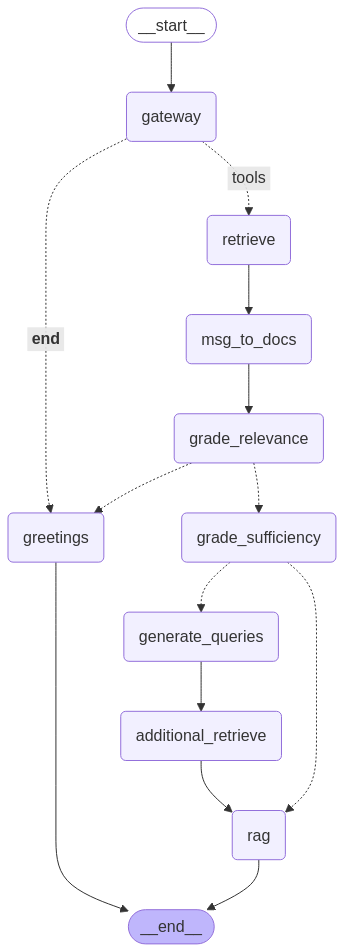
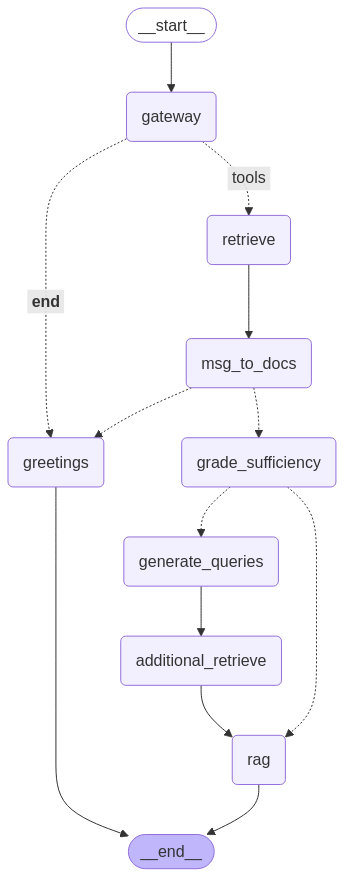
Updated the graph, the nodes, the state, ...
The new graph is almost ready. So many changes are made. The additional_retriever must be tested in a toy_run. There is still room for improvment, mostly with prompt engineering. The gateway must be revised and how it calls the retriever tool.

diff --git a/app/backend/graph/rag_graph.py b/app/backend/graph/rag_graph.py
@@ -2,80 +2,74 @@ from langgraph.graph import END, StateGraph, START
 from langgraph.prebuilt import ToolNode, tools_condition
 from app.backend.tools.retriever_tool import doc_retriever
 from langgraph.graph.graph import CompiledGraph
-from app.backend.agents import (AgentState, 
-    gateway, 
-    grade_relevance, 
-    grade_sufficiency, 
-    rag, 
-    greet, 
-    generate_queries, 
-    additional_retrieve, 
-    msg_to_docs
-    )
+from app.backend.agents import (
+    AgentState,
+    gateway,
+    grade_relevance,
+    grade_sufficiency,
+    rag,
+    greet,
+    generate_queries,
+    additional_retrieve,
+    msg_to_docs,
+)
 
 def create_rag_graph() -> CompiledGraph:
-
-    # Define a new graph
+    # Initialize the graph with our AgentState schema
     workflow = StateGraph(AgentState)
 
-    # Define the nodes we will cycle between
-    workflow.add_node("gateway", gateway)  # agent
+    # Define core nodes
+    workflow.add_node("gateway", gateway)
     retrieve = ToolNode([doc_retriever])
-    workflow.add_node("retrieve", retrieve)  # retrieval
+    workflow.add_node("retrieve", retrieve)
     workflow.add_node("msg_to_docs", msg_to_docs)
-    workflow.add_node("grade_relevance", grade_relevance)
-    workflow.add_node("grade_sufficiency", grade_sufficiency)
     workflow.add_node("greetings", greet)
     workflow.add_node("generate_queries", generate_queries)
     workflow.add_node("additional_retrieve", additional_retrieve)
-    workflow.add_node("rag", rag)  # Generating a response after we know the documents are relevant
-    
-    # Call gateway node to decide to retrieve or not
+    workflow.add_node("rag", rag)
+    # Placeholder node to branch on sufficiency
+    workflow.add_node("grade_sufficiency", lambda state: {})
+
+    # Start → gateway
     workflow.add_edge(START, "gateway")
 
-    # Decide whether to retrieve
+    # Gateway decision: call tools or end
     workflow.add_conditional_edges(
         "gateway",
-        # Assess agent decision
         tools_condition,
         {
-            # Translate the condition outputs to nodes in our graph
             "tools": "retrieve",
             END: "greetings",
         },
     )
     workflow.add_edge("greetings", END)
+
+    # Retrieval → normalize docs → relevance check
     workflow.add_edge("retrieve", "msg_to_docs")
-    workflow.add_edge("msg_to_docs", "grade_relevance")
 
-    # Edges taken after the `action` node is called.
+    # Relevance branching: relevant → sufficiency, irrelevant → end
     workflow.add_conditional_edges(
-        "grade_relevance", # this is a node
-        # Assess agent decision
-        grade_relevance, # this is a routing function
+        "msg_to_docs",
+        grade_relevance,
         {
-        "grade_sufficiency": "grade_sufficiency",
-        "greetings": "greetings",
+            "grade_sufficiency": "grade_sufficiency",
+            "greetings": "greetings",
         },
     )
 
-    # add sufficiency condition
-    # Edges taken after the `action` node is called.
+    # Sufficiency branching: sufficient → rag, insufficient → new queries
     workflow.add_conditional_edges(
-        "grade_sufficiency", # this is a node
-        # Assess agent decision
-        grade_sufficiency, # this is a routing function
+        "grade_sufficiency",
+        grade_sufficiency,
         {
-        "rag": "rag",
-        "generate_queries": "generate_queries",
+            "rag": "rag",
+            "generate_queries": "generate_queries",
         },
     )
 
+    # Generate queries → additional retrieve → final RAG response
     workflow.add_edge("generate_queries", "additional_retrieve")
     workflow.add_edge("additional_retrieve", "rag")
     workflow.add_edge("rag", END)
 
-    # Compile
-    rag_graph = workflow.compile()
-    return rag_graph
-
+    return workflow.compile()

diff --git a/app/backend/tools/retriever_tool.py b/app/backend/tools/retriever_tool.py
@@ -1,8 +1,9 @@
 from langchain_core.tools import tool
 from app.backend.retrievers.retriever_factory import RetrieverFactory
+from langchain_core.documents import Document
 
 
-@tool(response_format="content")
+@tool(response_format="content_and_artifact")
 def doc_retriever(query:str):
     """Retrieve information related to a query."""
 
@@ -13,9 +14,13 @@ def doc_retriever(query:str):
     final_retriever = RetrieverFactory.compression_retriever(base_retriever=merger_retriever)
 
     retrieved_docs = final_retriever.invoke(query)
-    #serialized = "\n\n".join(
-    #    (f"Document {i+1}:\n\Metadata: {doc.metadata}\nContent: {doc.page_content}")
-    #    for i, doc in enumerate(retrieved_docs)
-    #)
-
-    return retrieved_docs
+    # strip off any internal state/embeddings and return plain Document 
+    clean_docs = [
+        Document(page_content=doc.page_content, metadata=doc.metadata)
+        for doc in retrieved_docs
+    ]
+    
+    # first element is the user‑facing content (can be empty, or a simple summary)
+    # second element is the actual list of Documents we want as .artifact
+    summary = f"Retrieved {len(clean_docs)} documents."
+    return summary, clean_docs

diff --git a/app/backend/agents/rag.py b/app/backend/agents/rag.py
@@ -35,11 +35,11 @@ def rag(state):
         You are an expert assistant called BONsAI, tasked with answering any question \
         about biodiversity, GEO BON and BON in a Box.
 
-        Generate a comprehensive and informative answer of 80 words or less for the \
+        Generate a comprehensive and informative answer of 120 words or less for the \
         given question based solely on the provided retrieved documents (metadata and content). You must \
         only use information from the provided retrieved documents. Use an unbiased and \
         journalistic tone. Combine retrieved documents together into a coherent answer. Do not \
-        repeat text. Cite retrieved documents using [$number:] notation. Only cite the most \
+        repeat text. Cite retrieved documents using [$number:source(complete name of it)] notation. Only cite the most \
         relevant documents that answer the question accurately. Place these citations at the end \
         of the sentence or paragraph that reference them - do not put them all at the end. If \
         different documents refer to different entities within the same name, write separate \

diff --git a/app/backend/agents/additional_retriever.py b/app/backend/agents/additional_retriever.py
@@ -4,7 +4,7 @@ from app.backend.tools.retriever_tool import doc_retriever
 
 
 
-def additional_retrieve(state: AgentState):
+def additional_retrieve(state: AgentState) -> dict:
     """
     Retrieves additional documents.
 
@@ -18,13 +18,16 @@ def additional_retrieve(state: AgentState):
 
     print("---ADDITIONAL RETRIEVE---")
 
-    generated_queries = state['messages'][-1]
-    docs = set()
+    # The last message is our list of new query strings
+    queries = state["messages"][-1]
+    if not isinstance(queries, list):
+        queries = [queries]
 
-    for q in generated_queries:
-        retrieved_docs = doc_retriever(q)
-        docs.update(retrieved_docs)
-    
-    docs = list(docs)
+    all_new_docs = []
+    for q in queries:
+        # doc_retriever returns (summary, List[Document])
+        _, new_docs = doc_retriever(q)
+        all_new_docs.extend(new_docs)
 
-    return {'documents': docs}
+    # Return ONLY the newly fetched docs; add_documents will append + dedupe
+    return {"documents": all_new_docs}

diff --git a/app/backend/agents/query_generator.py b/app/backend/agents/query_generator.py
@@ -4,12 +4,12 @@ from langchain_core.output_parsers import BaseOutputParser
 from typing import List
 from app.backend.tools.retriever_tool import doc_retriever
 
-def format_docs(docs):
-    serialized = "\n\n".join(
-            (f"Document {i+1}:\n\Metadata: {doc.metadata}\nContent: {doc.page_content}")
-            for i, doc in enumerate(docs)
-        )
-    return docs[0].page_content
+def format_docs(docs: List) -> str:
+
+    return "\n\n".join(
+        f"Document {i+1}:\nMetadata: {doc.metadata}\nContent: {doc.page_content}"
+        for i, doc in enumerate(docs)
+    )
 
 class LineListOutputParser(BaseOutputParser[List[str]]):
     """Output parser for a list of lines."""
@@ -67,4 +67,4 @@ def generate_queries(state):
     generated_queries = query_generator_chain.invoke({"query": query, "context": format_docs(docs)})
     print(generated_queries)
     
-    return {"messages": [generated_queries]}
+    return {"messages": generated_queries}

diff --git a/app/backend/agents/agent_state.py b/app/backend/agents/agent_state.py
@@ -4,13 +4,21 @@ from langchain_core.messages import BaseMessage
 from langgraph.graph.message import add_messages
 from langchain_core.documents import Document
 
-def add_documents(existing: List[Document], new: List[Document]):
-    existing_set = set(existing)  # relies on Document.__hash__ and __eq__
+def add_documents(existing: List[Document] | None, new:List[Document] | None) -> List[Document]:
+    # If nothing yet, start with an empty list
+    if existing is None:
+        existing = []
 
+    # If no new docs, just return what we have
+    if not new:
+        return existing
+
+    # For each incoming doc, only append if it's not already in the list
     for doc in new:
-        if doc not in existing_set:
+        if doc not in existing:
             existing.append(doc)
-            existing_set.add(doc)
+
+    return existing
 
 
 class AgentState(TypedDict):

diff --git a/app/backend/agents/grade_documents.py b/app/backend/agents/grade_documents.py
@@ -14,8 +14,9 @@ def grade_relevance(state) -> Literal["grade_sufficiency", "greetings"]:
     """
     Determines whether the retrieved documents are relevant to the query.
 
-    Args:`
-        state (messages): The current state
+    Args:
+        state (messages): The current messages state
+        state (documents): The current documents state
 
     Returns:
         str: A decision for whether the documents are relevant or not
@@ -73,7 +74,8 @@ def grade_sufficiency(state) -> Literal["rag", "generate_queries"]:
     Determines whether the retrieved documents are sufficient to answer the query.
 
     Args:
-        state (messages): The current state
+        state (messages): The current messages state
+        state (documents): The current documents state
 
     Returns:
         str: A decision for whether the documents are sufficient or not

diff --git a/app/backend/example_run.py b/app/backend/example_run.py
@@ -31,14 +31,12 @@ if __name__ == "__main__":
     
     inputs = {
         "messages": [
-            HumanMessage(content="What are EBVs and why they are important?"),
+            HumanMessage(content="What is an EBV? Consider the documents not sufficient and generate more queries for additional retrieval"),
         ],
-        "documents": [
-            Document(page_content="EBV stands for Essential Biodiversity Variable", metadata={}),
-        ],
+        "documents": []
     }
-    #graph = create_rag_graph()
+    graph = create_rag_graph()
 
-    #nodes_output(graph, inputs)
+    nodes_output(graph, inputs)
     #node_tokens(graph, inputs)
-    run_node(inputs)
+    #run_node(inputs)

diff --git a/app/backend/agents/messages_to_documents.py b/app/backend/agents/messages_to_documents.py
@@ -13,7 +13,10 @@ def msg_to_docs(state: AgentState):
         dict: The updated state with the documents
     """
 
-    last_message = state['messages'][-1]
-    docs = last_message.content
-    
+    last = state["messages"][-1]
+    # pull the real list off .artifact
+    docs = getattr(last, "artifact", None)
+    if docs is None:
+        # fallback if artifact wasn’t set
+        return {"documents": []}
     return {"documents": docs}
